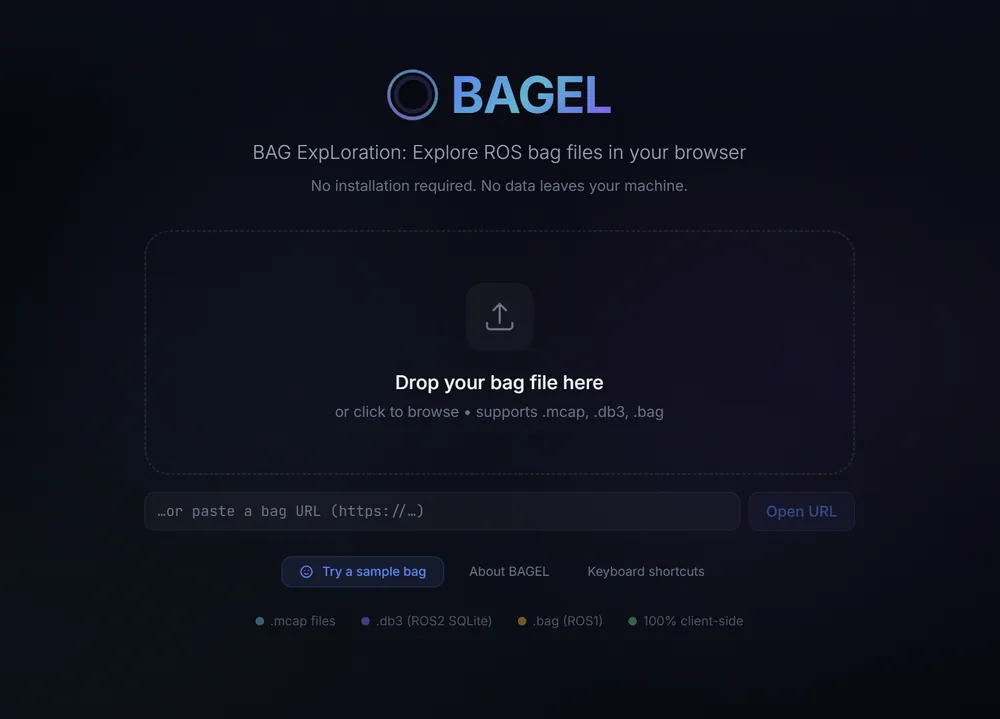
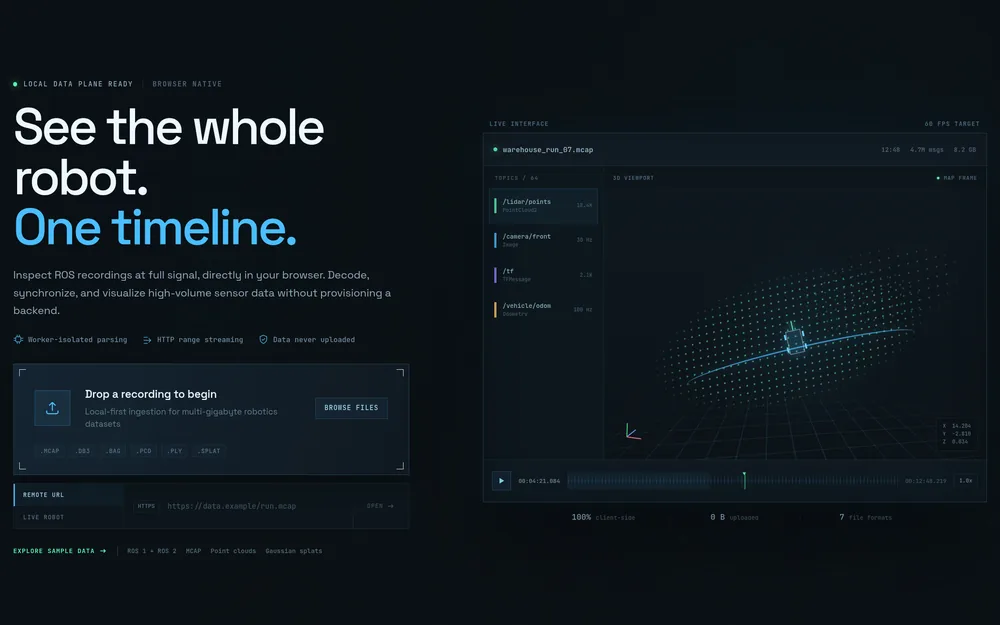
Update the BAGEL cover image
New landing page screenshot, cropped to the card's 16:10 so object-fit has
nothing left to trim, and to the content band so the empty margins above
and below do not eat the frame. Alt text updated to match what the image
now shows.

diff --git a/index.html b/index.html
@@ -235,7 +235,7 @@
       </a>
 
       <a class="card reveal" data-delay="1" href="https://github.com/Hussain004/BAGEL" target="_blank" rel="noopener noreferrer">
-        <div class="card-media"><img src="/projects/bagel.webp" alt="Browser interface showing a point cloud and time series plots from a ROS bag" loading="lazy" width="800" height="500" /></div>
+        <div class="card-media"><img src="/projects/bagel.webp" alt="BAGEL landing page showing the topic list and a 3D point cloud viewport" loading="lazy" width="800" height="500" /></div>
         <div class="card-body">
           <p class="card-kicker">WebAssembly, Web Workers</p>
           <h3>BAGEL</h3>
